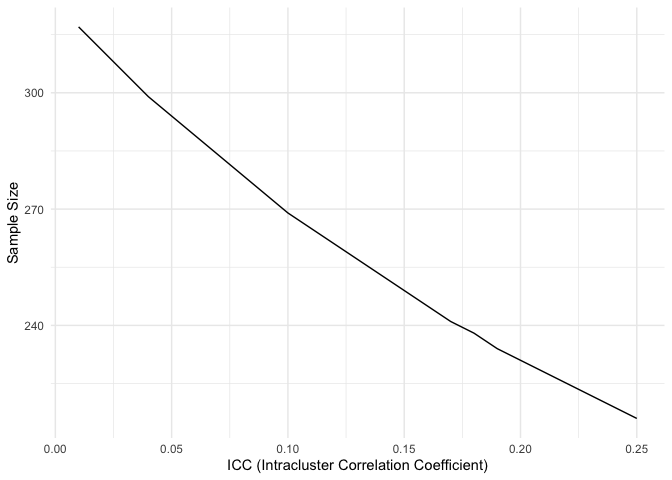
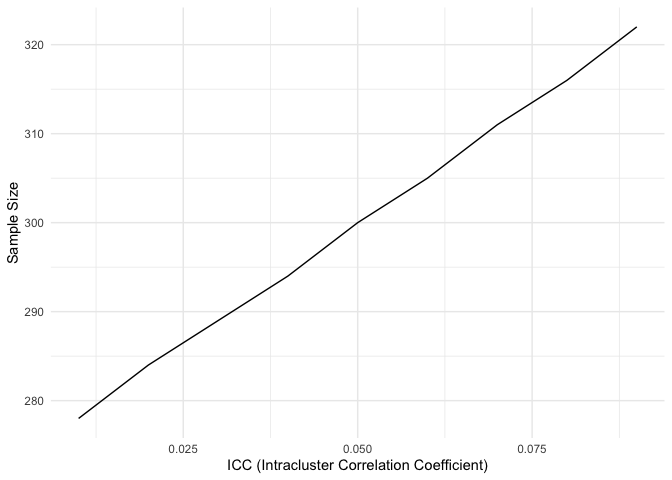
Updated SS calc

diff --git a/sample-size.md b/sample-size.md
@@ -24,7 +24,8 @@ library(ggplot2)
 2) Determine estimated proportion of the outcome: We hypothesize that at least 70% of participants are comfortable with being offered any SRH service at the hair salon. Remember, in Bassett et al, J Acquir Immune Defic Syndr, it was over 90%.
 3) Determine the level of confidence: 95% confidence. The probability that our sample results will be within the margin of error of the true population estimate. I.e, if we were to repeat our survey 100 times, we would get the same mean result about 95 times.
 4) Determine the margin of error (precision): The maximum acceptable difference between our sample estimate and the true population parameter, i.e., how sure we need to be that the results are accurate for the entire population. Usually at around 5% or less. If we discover that 85% of our participating clients find the offer of any SRH service acceptable, we can safely assume that 80-90% of our clients (the total population, i.e. all young women in Lesotho) will accept it.
-5) Estimate the intraclass correlation coefficient (ICC): The ICC measures the similarity or correlation between responses within the same cluster. Between 0-1. A higher ICC (closer to 1) implies more similarity, therefore smaller sample size needed (comes closer to an individual randomized trial). Based on the ICC, the design effect (DEFF) is calculated
+5) Estimate the intracluster correlation coefficient (ICC): The ICC measures the similarity or correlation between responses within the same cluster. Between 0-1. A higher ICC (closer to 1) implies more similarity (i.e. more correlation). Based on the ICC, the design effect, or inflation factor, is calculated.
+Based on: https://mnsurvey.nutritionintl.org/categories/13 
 
 
 ```r
@@ -33,25 +34,34 @@ confidence_level <- 0.95 # confidence level
 z <- qnorm(1 - (1 - confidence_level) / 2) # z statistic
 d <- 0.05 # margin of error
 cluster_size <- 3 # Average cluster size (fixed in our case)
-icc <- 0.05 # Intracluster correlation coefficient -> 0.05 is generally a safe bet (but see below, plot): https://dcricollab.dcri.duke.edu/sites/NIHKR/KR/Intraclass_Correlation_Coefficient_Cheat_Sheet_March_15_2020.pdf 
-prop <- 0.7 # Estimated proportion (= 70% acceptability) -> rather low! The higher, the lower the sample size needed.
+icc <- 0.05 # Intracluster correlation coefficient -> Clients from the same hair stylist might be correlated in terms of outcome (acceptability), so, 0.05 is the lowest acceptable, probably even a bit higher
+prop <- 0.77 # Estimated proportion (= 70% acceptability) -> rather low! The higher, the lower the sample size needed.
 deff <- 1 + (cluster_size - 1) * icc # Design Effect
-# Calculate the required sample size using the formula: https://mnsurvey.nutritionintl.org/categories/13
-sample_size <- ceiling((z * sqrt(prop * (1 - prop)) / d)^2 / deff)
+sample_size <- ceiling((z^2 * prop * (1 - prop) * deff) / d^2)
 # Print the calculated sample size
 cat("Required sample size:", sample_size)
 ```
 
 ```
-## Required sample size: 294
+## Required sample size: 300
+```
+
+```r
+# Number of clusters
+n_clusters <- sample_size / cluster_size
+cat("Required clusters:", round(n_clusters, 0))
+```
+
+```
+## Required clusters: 100
 ```
 
 ```r
 # Create.a plot varying the ICC
-icc_values <- seq(0.01, 0.25, by = 0.01)  # range of realistic ICCs
+icc_values <- seq(0.01, 0.09, by = 0.01)  # range of realistic ICCs
 data_frame <- data.frame(ICC = icc_values)
 # Calculate required sample size for each ICC value
-data_frame$SampleSize <- ceiling((z * sqrt(prop * (1 - prop)) / d)^2 / (1 + (cluster_size - 1) * data_frame$ICC))
+data_frame$SampleSize <- ceiling((z^2 * prop * (1 - prop) * (1 + (cluster_size - 1) * data_frame$ICC)) / d^2)
 # Create the plot
 ss_plot <- ggplot(data_frame, aes(x = ICC, y = SampleSize)) +
   geom_line() +
@@ -68,5 +78,12 @@ print(ss_plot)
 ```r
 # Save the ggplot as an image file (e.g., PNG)
 ggsave("sample_size_plot.png", plot = ss_plot, width = 6, height = 4, units = "in")
+
+# Print the current version of R
+cat("R version:", R.version$version.string)
+```
+
+```
+## R version: R version 4.2.3 (2023-03-15)
 ```
 
